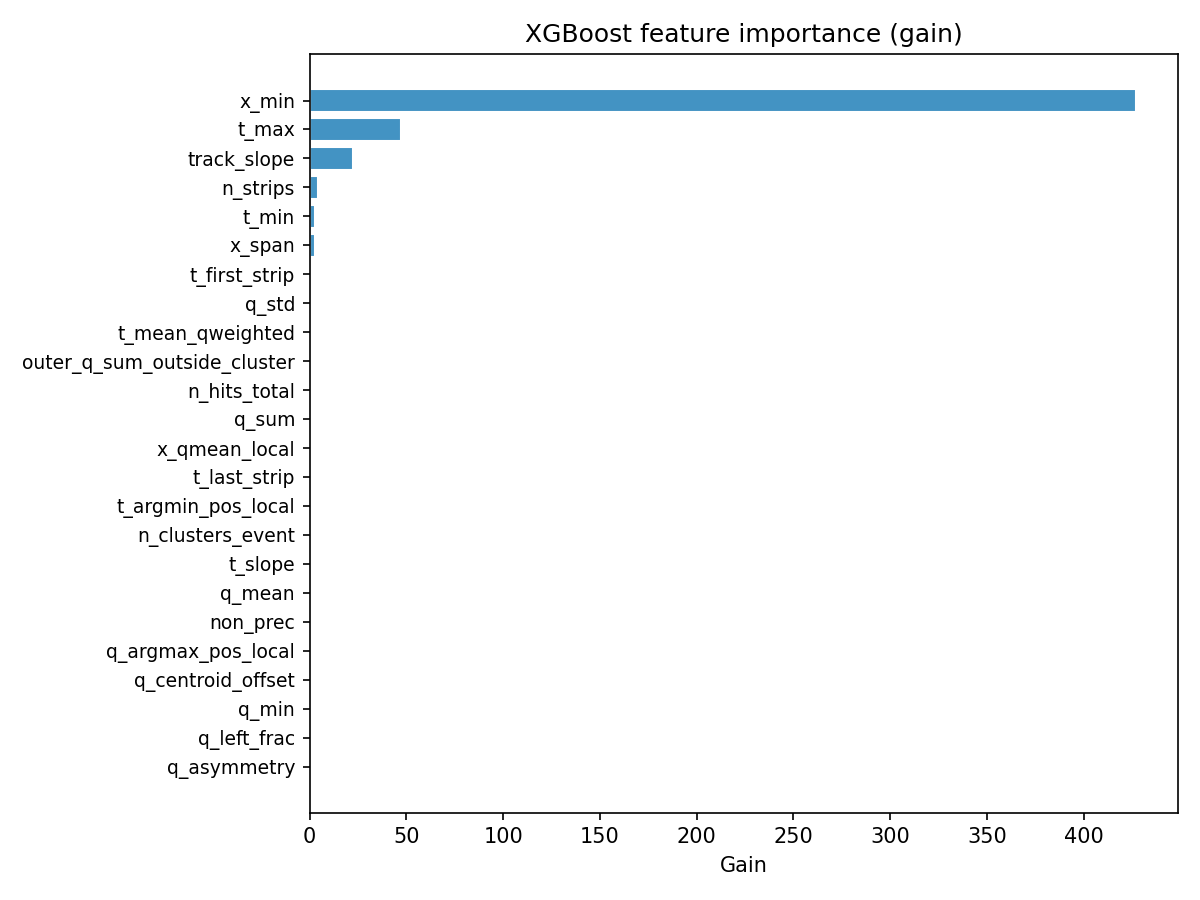
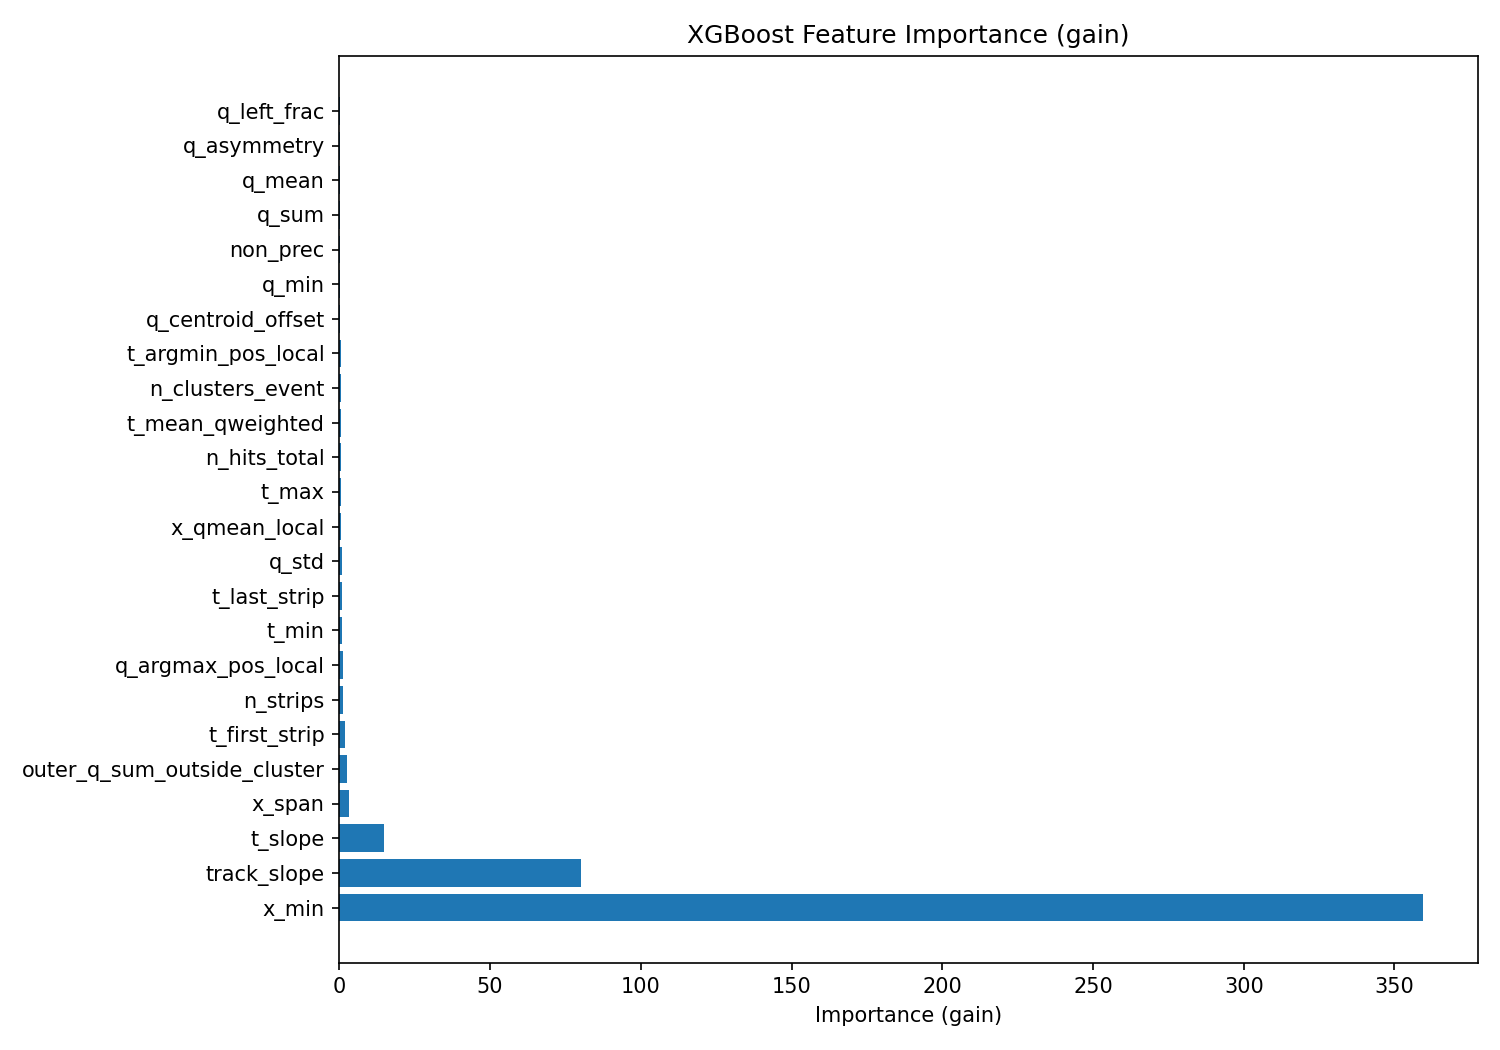
fix: path bugs, add --data arg to xgboost, update figures

Changed region(s): [[0.0, 0.0, 0.9867, 0.9956], [0.0308, 0.3733, 0.0617, 0.4044]]

diff --git a/pipeline/03_train_xgboost.py b/pipeline/03_train_xgboost.py
@@ -10,7 +10,6 @@ from features import FEATURES, build_features
 
 MAX_NHITS_TRAIN = 50
 ROOT = Path(__file__).resolve().parents[1]   # repo root (pipeline/ is one level down)
-DATA = ROOT / "Data_for_Roman_29deg_530V_100ns_x9.root"
 OUT  = ROOT / "outputs"
 OUT.mkdir(exist_ok=True)
 SEED  = 42
@@ -18,6 +17,11 @@ SPLIT = (0.70, 0.15, 0.15)
 
 
 def main():
+    import argparse
+    p = argparse.ArgumentParser()
+    p.add_argument("--data", type=str, required=True, help="Path to .root file")
+    args = p.parse_args()
+    DATA = Path(args.data)
     print("[XGB] loading data ...", flush=True)
     ev = load_events(DATA)
     a, b = learn_frame_transform(ev)

diff --git a/src/plots.py b/src/plots.py
@@ -13,8 +13,8 @@ sys.path.insert(0, str(Path(__file__).resolve().parents[1] / "src"))
 
 from fits import fit_residuals
 
-ROOT = Path(__file__).resolve().parent
-DATA = ROOT.parent / "Datensatz" / "Data_for_Roman_29deg_530V_100ns_x9.root"
+ROOT = Path(__file__).resolve().parents[1]   # repo root (src/ is one level down)
+DATA = ROOT / "Data_for_Roman_29deg_530V_100ns_x9.root"
 OUT  = ROOT / "outputs"
 PLOTDIR = OUT / "plots"
 PLOTDIR.mkdir(exist_ok=True)

diff --git a/pipeline/02_analyse_features.py b/pipeline/02_analyse_features.py
@@ -84,7 +84,7 @@ def main():
         model.load_model(str(model_path))
         for imp_type in ["gain", "weight", "cover"]:
             scores = model.get_booster().get_score(importance_type=imp_type)
-            vals = [scores.get(f"f{i}", 0.0) for i in range(len(FEATURES))]
+            vals = [scores.get(FEATURES[i], 0.0) for i in range(len(FEATURES))]
             order = np.argsort(vals)[::-1]
             fig, ax = plt.subplots(figsize=(10, 7))
             ax.barh([FEATURES[o] for o in order], [vals[o] for o in order])

diff --git a/README.md b/README.md
@@ -12,7 +12,7 @@ pip install -r requirements.txt
 DATA=Data_for_Roman_29deg_530V_100ns_x9.root
 
 python pipeline/01_diagnose.py        --data $DATA   # calibration -> outputs/detector_shift.json
-python pipeline/03_train_xgboost.py                  # XGBoost     -> outputs/xgb_*.{npz,json}
+python pipeline/03_train_xgboost.py   --data $DATA   # XGBoost     -> outputs/xgb_*.{npz,json}
 python pipeline/04_train_gnn.py       --data $DATA --tc-anchor --out-prefix gnn_road_tc
 python src/evaluate.py                               # comparison table over all models
 python src/plots.py                                  # figures -> outputs/plots/
@@ -65,6 +65,14 @@ Two resolution measures are reported, since they answer different questions:
 ![Core vs tail robustness](results/figures/sigma_comparison.png)
 
 ![XGBoost feature importance](results/figures/feature_importance_gain.png)
+
+![GNN training metrics](results/figures/history_metrics_gnn.png)
+
+![Input: strips per event](results/figures/nstrips_distribution.png)
+
+![Input: cluster gaps](results/figures/gap_distribution.png)
+
+![XGBoost discretization effect](results/figures/xgb_discretization.png)
 
 ## Pipeline
 